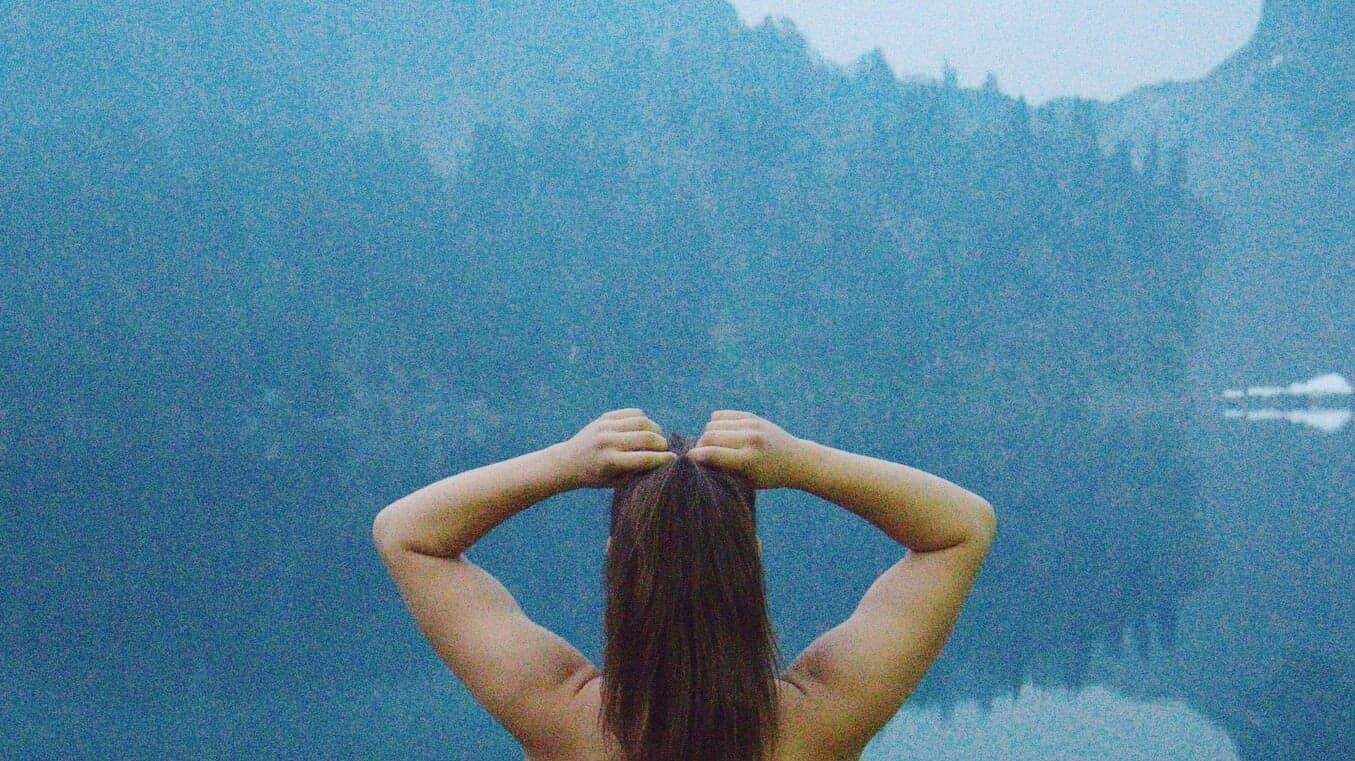
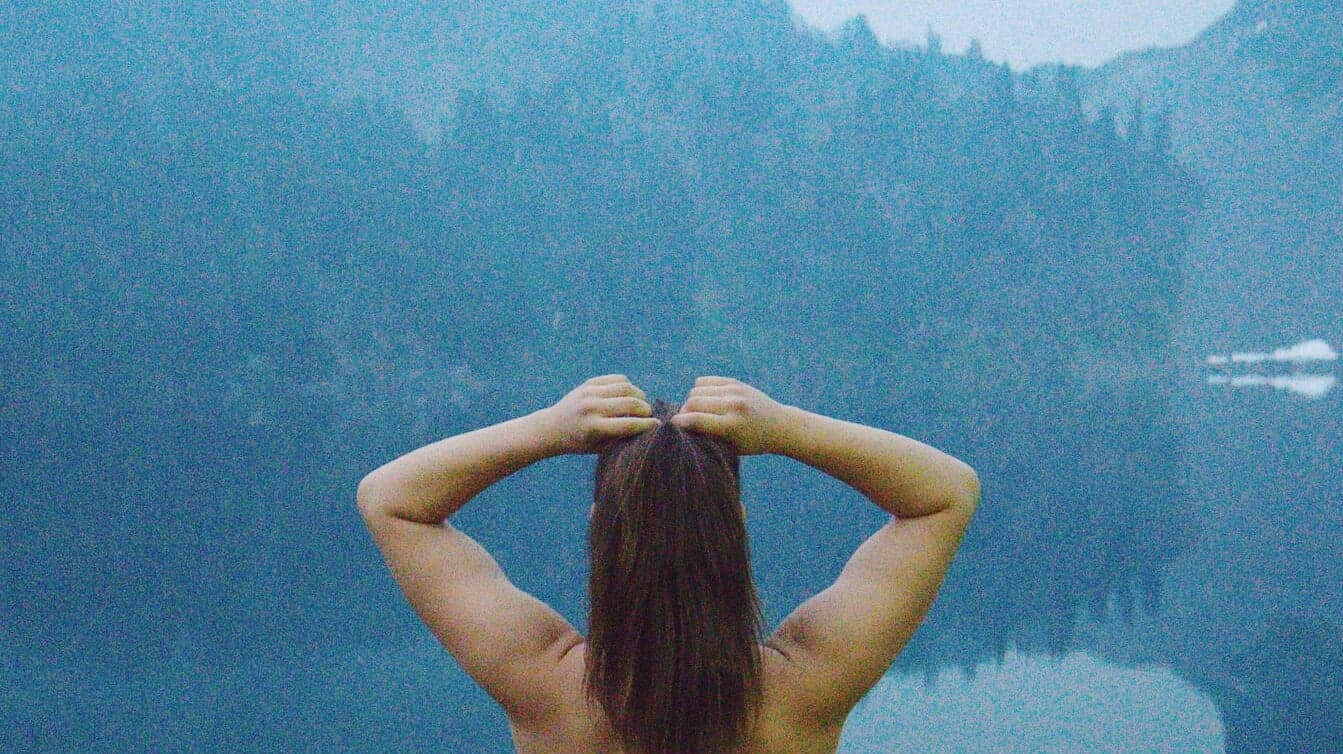
preliminary highlights and quotes sections

diff --git a/index.html b/index.html
@@ -91,7 +91,7 @@
                             <span class="glyphicon glyphicon-envelope"></span>
                         </a>
                     </li>
-</div>
+            </div>
         </div>
     </nav>
 
@@ -120,7 +120,7 @@
         <div class="container" id="aboutMe">
             <div class="row">
                 <div class="col-md-6">
-                    <img src="img/square.jpg" class="img-responsive img-rounded center-block">
+                    <img src="img/square.jpg" id="mePic" class="img-responsive img-rounded center-block">
                 </div>
                 <div class="col-md-5">
                     <h2> About Me </h2>
@@ -137,6 +137,97 @@
             </div>
         </div>
     </div>
+
+    <!--div class="w3-row w3-center w3-black w3-padding-16" id="links">
+        <h2 id="white">Highlights</h2>
+        <div>
+            <div class="w3-black col-lg-4 col-md-4 col-sm-12 col-xs-12 isotopeSelector javascript webdev games" id="highlight">
+                <figure class="caption">
+                    <a href="https://uclabruins.com/news/2017/1/3/swimming-diving-women-who-reign-elena-escalas.aspx">
+                        <img src="img/womenWhoReign.jpg" class="img-responsive img-rounded center-block caption__media" alt="Rainbow Runner video game screen in Mario mode">
+                        <div class="caption__overlay">
+                            <figcaption class="caption__overlay__content">
+                                <h4>Women Who Reign</h4>
+                                <p>Interview with Reigning It: Women in STEM, a blog on Medium "creating a STEM dialogue inclusive of every woman"</p>
+                                <p>
+                               
+                                </p>
+                            </figcaption>
+                        </div>
+                    </a>
+                </figure>
+            </div>
+            <div class="w3-black col-lg-4 col-md-4 col-sm-12  col-xs-12 isotopeSelector javascript webdev games" id="highlight">
+                <figure class="caption">
+                    <a href="https://uclabruins.com/roster.aspx?rp_id=4940">
+                        <img src="img/team_photo.jpg" class="img-responsive img-rounded center-block caption__media" alt="Rainbow Runner video game screen in Mario mode">
+                        <div class="caption__overlay">
+                            <figcaption class="caption__overlay__content">
+                                <h4>UCLA Swimming Roster</h4>
+                                <p>Four year member of the UCLA Varsity Women's Swim Team.</p>
+                                <p>
+
+                                </p>
+                            </figcaption>
+                        </div>
+                    </a>
+                </figure>
+            </div>
+            <div class="w3-black col-lg-4 col-md-4 col-sm-12  col-xs-12 isotopeSelector javascript webdev games" id="highlight">
+                <figure class="caption">
+                    <a href="https://swimswam.com/nashville-breaststroker-elena-escalas-follow-olympian-fathers-footsteps-ucla/">
+                        <img src="img/commitment.jpg" class="img-responsive img-rounded center-block caption__media" alt="Rainbow Runner video game screen in Mario mode">
+                        <div class="caption__overlay">
+                            <figcaption class="caption__overlay__content">
+                                <h4>UCLA Swimming Commitment Announcement</h4>
+                                <p></p>
+                                <p>
+
+
+                                </p>
+                            </figcaption>
+                        </div>
+                    </a>
+                </figure>
+            </div>
+            <div class="w3-black col-lg-4 col-md-4 col-sm-12  col-xs-12 isotopeSelector javascript webdev games" id="highlight">
+                <figure class="caption">
+                    <a href="https://twitter.com/gvanrossum/status/969443110735331328?s=20">
+                        <img src="img/python.jpg" class="img-responsive img-rounded center-block caption__media" alt="Rainbow Runner video game screen in Mario mode">
+                        <div class="caption__overlay">
+                            <figcaption class="caption__overlay__content">
+                                <h4>Quoted by Guido van Rossum</h4>
+                                <p>Guido van Rossum, the creator of Python, quoted my quote from my interview for the Daily Bruin Article: "UCLA Introductory programming classes should focus more on Python, not C++"</p>
+                                <p>
+
+                                </p>
+                            </figcaption>
+                        </div>
+                    </a>
+                </figure>
+            </div>
+            <div class="w3-black col-lg-4 col-md-4 col-sm-12  col-xs-12isotopeSelector javascript webdev games" id="highlight">
+                <figure class="caption">
+                    <a href="https://uclabruins.com/news/2017/1/3/swimming-diving-women-who-reign-elena-escalas.aspx">
+                        <img src="img/womenWhoReignOG.jpg" class="img-responsive img-rounded center-block caption__media" alt="Rainbow Runner video game screen in Mario mode">
+                        <div class="caption__overlay">
+                            <figcaption class="caption__overlay__content">
+                                <h4>Women Who Reign</h4>
+                                <p>Interview with Reigning It: Women in STEM, a blog on Medium "creating a STEM dialogue inclusive of every woman"</p>
+                                <p>
+
+                                </p>
+                            </figcaption>
+                        </div>
+                    </a>
+                </figure>
+            </div>
+            <div id="links-bottom" class="w3-black">
+
+            </div>
+        </div>
+        </div-->
+
 
     <div class="background-grey">
         <div class="container" id="experience">
@@ -180,7 +271,7 @@
                 <div class="col-md-8">
                     <h4>Peer Learning Facilitator for UCLA Athletics</h4>
                     <p>
-                        Tutored other student-athletes.
+                        Tutoring other Student-Athletes. Dedicating a minimum of 6 hours per week of tutoring or tutoring preparation to help Student-Athletes develop the skills necessary to learn and succeed on their own. I wanted to become a tutor for student-athletes becuse I noticed as I was tutored myself that there was a low supply of tutors available to tutor mathematics classes. My goal as a PLF is to get more student-athletes into STEM by helping them pass lower-division math classes and gain confidence in their ability to learn and challenge themselves.
                     </p>
                 </div>
             </div>
@@ -225,6 +316,14 @@
         </div>
     </div>
 
+    <!--div class="w3-row w3-center w3-black w3-padding-16">
+        <img src="img/open_quote.png" id="left_quote" />
+        <p>
+            quote quote
+        </p>
+        <img src="img/close_quote.png" id="right_quote" />
+    </div-->
+
 
     <div class="background-white">
         <div class="container" id="education">
@@ -250,7 +349,7 @@
                 </div>
                 <div class="col-md-8">
                     <h4>High School</h4>
-                    <p>you know you don't really care about this one...</p>
+                    <p>Graduated Cum Laude with a 3.97 unweighted GPA. Received AP Scholar status with Distinction, National Merit Hispanic Recognition, and Academic Honors in Science and Mathematics. My senior year, I was awarded with the Faculty Award, which is given to the student in the senior class who has exhibited a passion for learning evident to the faculty. I also received the Tiger of the Year Award, which is awarded to the student with the most athletic success in the class, and finished my senior year with USA Scholastic All-American distinction for three years out of three years eligibility for the distinction </p>
                 </div>
             </div>
             <h3>College Coursework</h3>
@@ -271,7 +370,7 @@
                 </div>
                 <div class="col-md-8">
                     <h4>Algorithms</h4>
-                    <p>self-explanatory bruh.</p>
+                    <p>Basics of design and analysis of algorithms with the primary goal of developing "algorithmic thinking". Learned some of the core algorithmic techniques and concrete algorithms that underlie much of computer science.</p>
                 </div>
             </div>
 
@@ -430,7 +529,7 @@
                                 <span class="glyphicon glyphicon-star-empty"></span>
                             </span>
                         </li>
-                      
+
                     </ul>
                 </div>
             </div>
@@ -440,22 +539,22 @@
             <div class="container" id="contact">
                 <h2>Contact Me</h2>
                 <h2>
-                       <a href="mailto:elenaescalas@g.ucla.edu">
-                                <span class="glyphicon glyphicon-envelope"></span>
-                       </a>
-                       <a href="https://www.facebook.com/eescalas" target="_blank">
-                                <span class="socicon-facebook"></span>
-                       </a>
-                       <a href="https://www.github.com/eescalas" target="_blank">
-                                <span class="socicon-github"></span>
-                       </a>
-                       <a href="https://www.linkedin.com/in/elenaescalas" target="_blank">
-                                <span class="socicon-linkedin"></span>
-                       </a>
-                       <a href="https://twitter.com/elenaescalas" target="_blank">
-                                <span class="socicon-twitter"></span>
-                       </a>
-                    </h2>
+                    <a href="mailto:elenaescalas@g.ucla.edu">
+                        <span class="glyphicon glyphicon-envelope"></span>
+                    </a>
+                    <a href="https://www.facebook.com/eescalas" target="_blank">
+                        <span class="socicon-facebook"></span>
+                    </a>
+                    <a href="https://www.github.com/eescalas" target="_blank">
+                        <span class="socicon-github"></span>
+                    </a>
+                    <a href="https://www.linkedin.com/in/elenaescalas" target="_blank">
+                        <span class="socicon-linkedin"></span>
+                    </a>
+                    <a href="https://twitter.com/elenaescalas" target="_blank">
+                        <span class="socicon-twitter"></span>
+                    </a>
+                </h2>
             </div>
         </div>
 </body>

diff --git a/css/style.css b/css/style.css
@@ -113,13 +113,52 @@ header h2 {
     padding-bottom: 18%;
 }
 
+#white {
+    color: #FFFFFF;
+    padding-top: 2%;
+}
+
 /* About Me */
 #aboutMe {
     padding: 50px 60px;
 }
 
+#mePic {
+    height: 85%;
+    width: 85%;
+}
+
 .center-link {
     text-align: center;
+}
+
+/* Quotes */
+
+#left_quote {
+
+}
+
+#right_quote {
+
+}
+
+/* Highlights */
+
+#links {
+    padding-left: 5%;
+    padding-right: 5%;
+}
+
+#links-bottom {
+    padding-top: 22%;
+    padding-bottom: 22%;
+}
+
+#highlight {
+    padding-left: 0%;
+    padding-right: 0%;
+    padding-top: 2%;
+    padding-bottom: 0%;
 }
 
 /* Skills */
